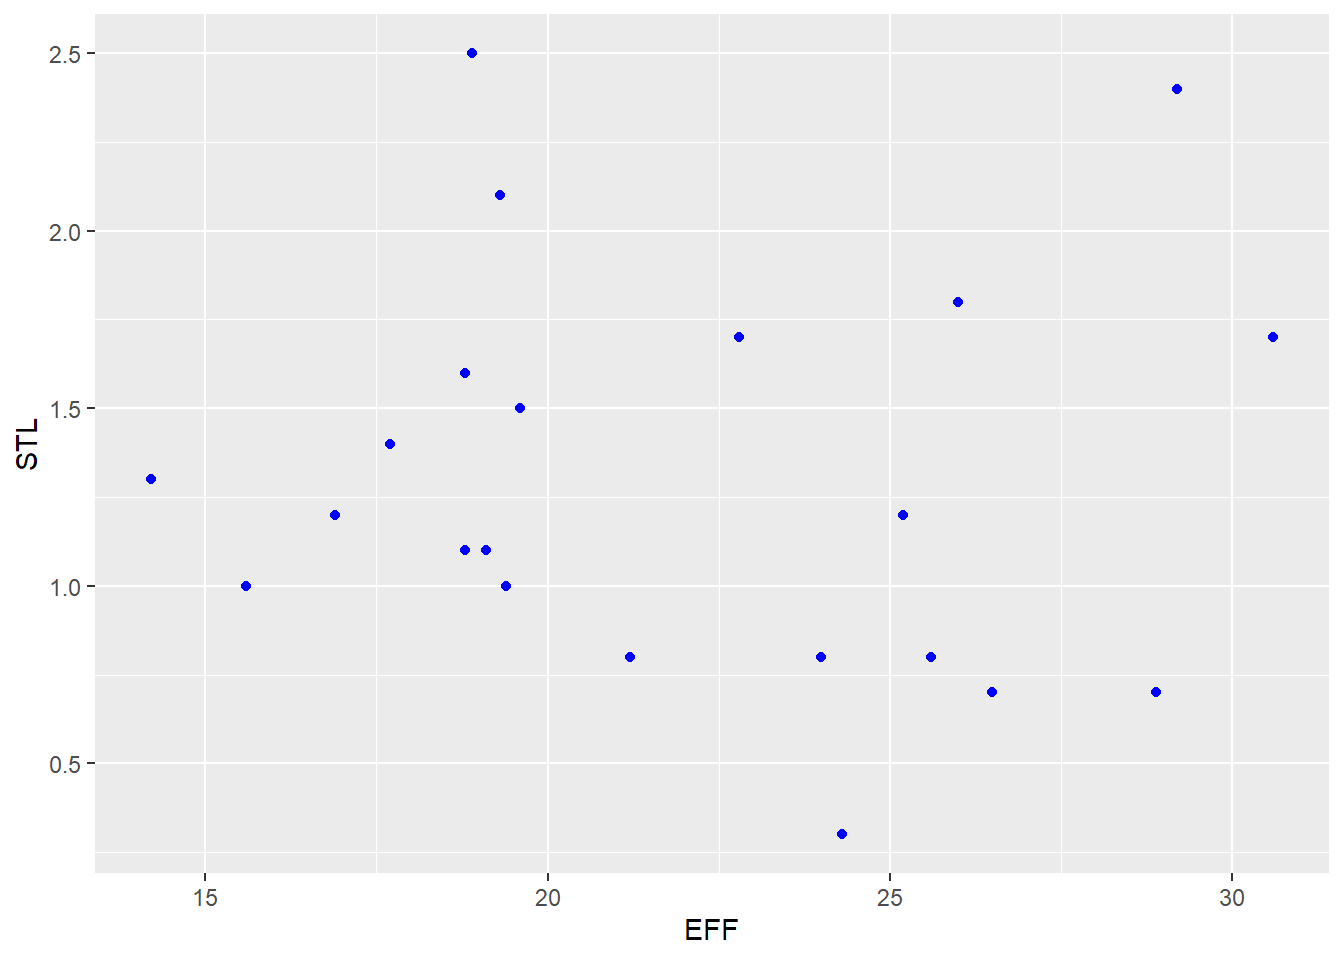
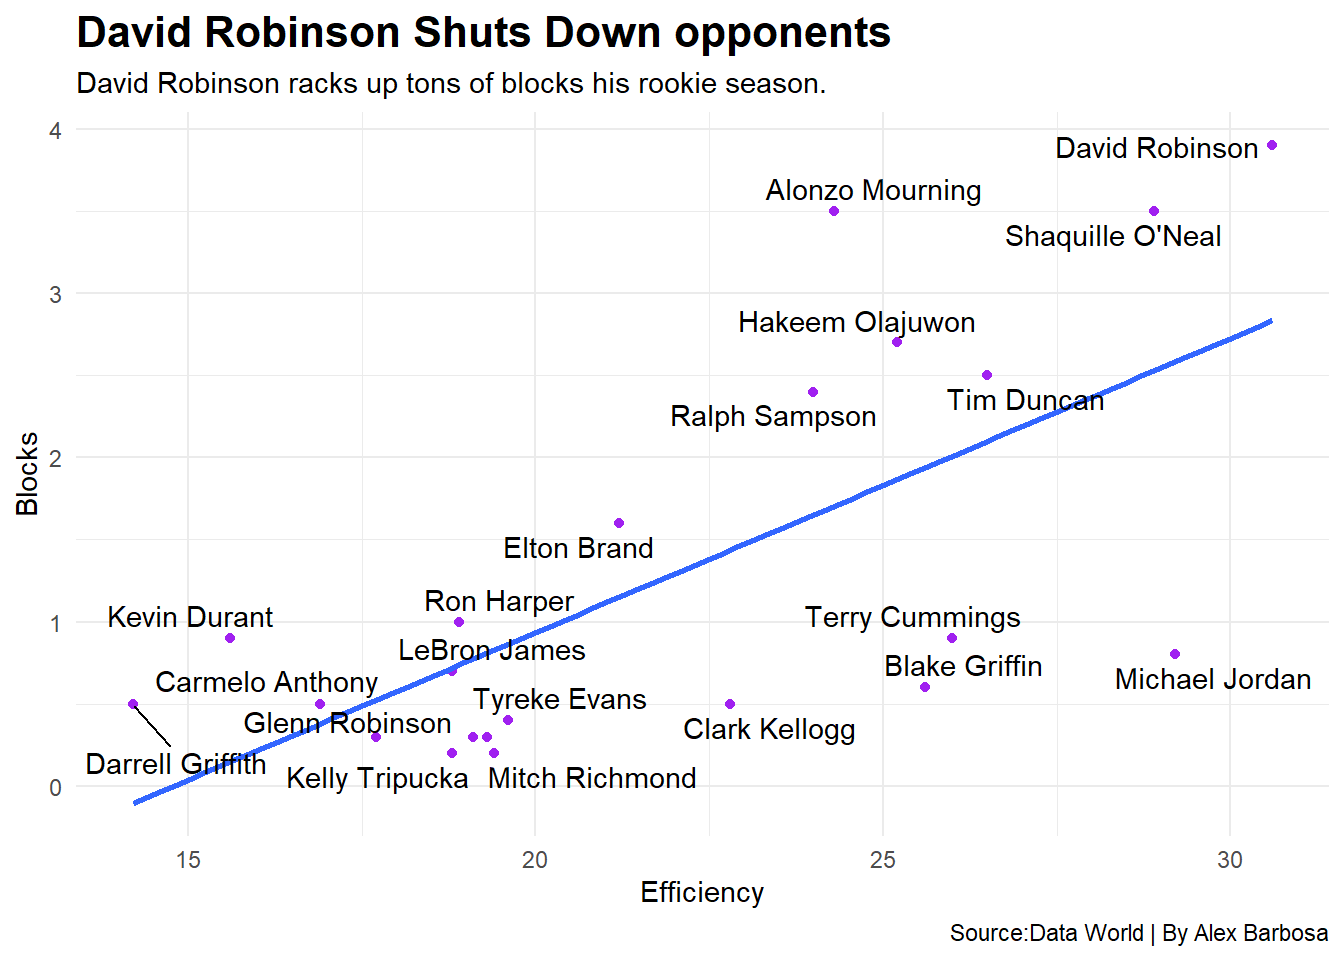
Updating new post

diff --git a/2021/04/07/who-had-the-best-rookie-season/index.html b/2021/04/07/who-had-the-best-rookie-season/index.html
@@ -77,12 +77,15 @@
 <p>Have you ever thought of hypothetical scenarios of NBA players and how they would compare against each other stat-wise?
 We are going to be doing this by looking at NBA rookies and try to find out who had the best rookie season. We are going to use rookie season data from the website Data World.We will be using the NBA seasons of 1980-2016.</p>
 <p>Since that’s a lot of data to use I’m going to narrow down the data by using our tool filter to only be looking at rookies who average at least 20 points their rookie season. The reason why I picked points is to really narrow down the data to get an even better picture of who had the best rookie season during our time period of 1980-2016.</p>
+<pre class="r"><code>library(ggrepel)</code></pre>
+<pre><code>## Warning: package &#39;ggrepel&#39; was built under R version 4.0.4</code></pre>
+<pre><code>## Loading required package: ggplot2</code></pre>
 <pre class="r"><code>library(tidyverse)</code></pre>
 <pre><code>## -- Attaching packages --------------------------------------- tidyverse 1.3.1 --</code></pre>
-<pre><code>## v ggplot2 3.3.3     v purrr   0.3.4
-## v tibble  3.1.0     v dplyr   1.0.5
+<pre><code>## v tibble  3.1.0     v dplyr   1.0.5
 ## v tidyr   1.1.3     v stringr 1.4.0
-## v readr   1.4.0     v forcats 0.5.1</code></pre>
+## v readr   1.4.0     v forcats 0.5.1
+## v purrr   0.3.4</code></pre>
 <pre><code>## Warning: package &#39;tibble&#39; was built under R version 4.0.5</code></pre>
 <pre><code>## Warning: package &#39;tidyr&#39; was built under R version 4.0.5</code></pre>
 <pre><code>## Warning: package &#39;dplyr&#39; was built under R version 4.0.5</code></pre>
@@ -120,7 +123,7 @@ ggplot() +
     horizontal = TRUE,
     color = &quot;red&quot;
   ) + 
-theme_minimal() + labs( title=&quot;Rookie Season Points Averages&quot;, subtitle=&quot;Michael Jordan Runs Away In Scoring. &quot;, caption=&quot;Source: Data World | By Alex Barbosa&quot;) </code></pre>
+theme_minimal() + labs( title=&quot;Michael Jordan Runs Away In Scoring his Rookie Season&quot;, subtitle=&quot;Jordan leads in scoring easily with everyone eles right next to each other. &quot;,y=&quot;Name&quot;,x=&quot;Points Per Game&quot;,caption=&quot;Source: Data World | By Alex Barbosa&quot;) </code></pre>
 <p><img src="/2021/04/07/who-had-the-best-rookie-season/index_files/figure-html/unnamed-chunk-3-1.png" width="672" />
 When we look at scoring for rookies we get a clear picture that Michael Jordan is best in terms scoring with the next closest player being David Robinson.</p>
 <pre class="r"><code>  ggplot() + 
@@ -135,7 +138,7 @@ When we look at scoring for rookies we get a clear picture that Michael Jordan i
     horizontal = TRUE,
     color = &quot;blue&quot;
   ) + 
-  theme_minimal() + labs( title=&quot;Rookie Season Rebounds Averages&quot;, subtitle=&quot;Shaq Dominates on the boards. &quot;, caption=&quot;Source: Data World | By Alex Barbosa&quot;) </code></pre>
+  theme_minimal() + labs( title=&quot;Shaq Dominates On The Boards His Rookie Season&quot;, subtitle=&quot;Centers dominates on the boards their rookie season. &quot;,y=&quot;Name&quot;,x=&quot;Rebounds&quot;,caption=&quot;Source: Data World | By Alex Barbosa&quot;) </code></pre>
 <p><img src="/2021/04/07/who-had-the-best-rookie-season/index_files/figure-html/unnamed-chunk-4-1.png" width="672" /></p>
 <p>Looking at the rookies who average the most rebounds we see Shaq up there along with multiple other centers position guys right behind like Blake Griffin and David Robinson and Tim Duncan.</p>
 <pre class="r"><code>ggplot() + 
@@ -149,7 +152,7 @@ When we look at scoring for rookies we get a clear picture that Michael Jordan i
     aes(y=Name, x=AST),
     horizontal = TRUE,
     color = &quot;dark green&quot;
-  ) + theme_minimal() + labs( title=&quot;Rookie Season Assist Averages&quot;, subtitle=&quot;Allen Iverson Dishes Out Assist. &quot;, caption=&quot;Source: Data World | By Alex Barbosa&quot;) </code></pre>
+  ) + theme_minimal() + labs( title=&quot;Allen Iverson Dishes Out Assist&quot;, subtitle=&quot;Allen Iverson leads rookies in assist with the rest of the pack far behind. &quot;,y=&quot;Name&quot;,x=&quot;Assist&quot;,caption=&quot;Source: Data World | By Alex Barbosa&quot;) </code></pre>
 <p><img src="/2021/04/07/who-had-the-best-rookie-season/index_files/figure-html/unnamed-chunk-5-1.png" width="672" />
 We are next going to look at the rookies’ assist average leaders stat. We clearly see that Allen Iverson separates himself from the rest of the pack of rookies with both LeBron James and Michael Jordan tied at 2nd.</p>
 <pre class="r"><code>ggplot() + 
@@ -165,138 +168,99 @@ We are next going to look at the rookies’ assist average leaders stat. We clea
     color = &quot;purple&quot;
   ) +
   
-  theme_minimal() + labs( title=&quot;Rookie Season Free Throw Percentage&quot;, subtitle=&quot;Kevin Durant Converts Efficiently On The Free throw Line. &quot;, caption=&quot;Source: Data World | By Alex Barbosa&quot;)  </code></pre>
+  theme_minimal() + labs( title=&quot;Kevin Durant Converts Efficiently On The Free throw Line&quot;, subtitle=&quot;Kevin Durant efficient on the line with Michael Jordan barely behind. &quot;,y=&quot;Name&quot;,x=&quot;Free Throw Percentage&quot;,caption=&quot;Source: Data World | By Alex Barbosa&quot;)  </code></pre>
 <p><img src="/2021/04/07/who-had-the-best-rookie-season/index_files/figure-html/unnamed-chunk-6-1.png" width="672" />
 Overall, the stats here just give us a general idea of which rookie players dominated but we do know if those players were efficient or if they were just taking a bunch of shots as a result of being on a bad team so they scored a bunch of points. Stat padding is a problem because it could make other players look better than they are. We will dive in deeper and look at charts with some of the same stats but also look at player efficiency which gives us a better look at player’s value.</p>
-<pre class="r"><code>library(tidyverse)
-library(ggbeeswarm)</code></pre>
-<pre><code>## Warning: package &#39;ggbeeswarm&#39; was built under R version 4.0.4</code></pre>
-<pre class="r"><code>library(ggrepel)</code></pre>
-<pre><code>## Warning: package &#39;ggrepel&#39; was built under R version 4.0.4</code></pre>
-<pre class="r"><code> Rookies &lt;- Rookies %&gt;% filter(PTS&gt;20) 
-ggplot() + geom_beeswarm(data=Rookies, aes(x=PTS, y=`FG%`), color=&quot;red&quot;)</code></pre>
-<p><img src="/2021/04/07/who-had-the-best-rookie-season/index_files/figure-html/unnamed-chunk-8-1.png" width="672" /></p>
-<pre class="r"><code>ggplot() + geom_beeswarm(
-    data=Rookies, 
-    groupOnX=TRUE, 
-    aes(x=PTS, y=`FG%`), color=&quot;red&quot;) +  labs(x=&quot;Points&quot;, y=&quot;Field goal percentage&quot;, title=&quot;Michael Jordan scoring Dominance&quot;, subtitle=&quot;Michael Jordan out scores everyone and still has one of the top field goal percentage. &quot;, caption=&quot;Source: Data World | By Alex Barbosa&quot;) +  
-  
-
-   theme(
-    plot.title = element_text(size = 16, face = &quot;bold&quot;),
-    axis.title = element_text(size = 8), 
-    plot.subtitle = element_text(size=10), 
-    panel.grid.minor = element_blank()
-    ) +
-    
-  geom_text_repel(
-    data=Rookies, 
-    aes(x=EFF,y=`MIN`, label=Name))</code></pre>
-<p><img src="/2021/04/07/who-had-the-best-rookie-season/index_files/figure-html/unnamed-chunk-8-2.png" width="672" />
-The first chart we are going to look at is rookie season points averages but this time we will also look at the field goal percentage too. This will help us get a better insight into who was scoring while also being effective. There could be players who shoot a lot of shots and average tons of points but they may not be as effective.</p>
-<p>Looking at the first chart, we see that Michael Jordan is averaging the most points by far while also having one of the top field goal percentages which shows us that Michael Jordan was very efficient. The next closest player is David Robinson who is more efficient while averaging four fewer points.</p>
-<p>In our next charts, we are going to look at EFF in basketball which stands for player efficiency. Efficiency is a total performance statistic that attempts to measure a player’s performance above the number of points produced and a benchmark that allows us to compare a player’s overall individual value to other players.</p>
 <pre class="r"><code>library(tidyverse)</code></pre>
-<pre class="r"><code> ggplot(Rookies, aes(x=PTS, y=`FG%`)) + 
-  geom_point(color=&quot;grey&quot;)+ geom_smooth(method=lm, se=FALSE)+ 
-  labs(x=&quot;Points per game&quot;, y=&quot;Field goal percentage&quot;, title=&quot;Michael Jordan scoring Dominance&quot;, subtitle=&quot;Michael Jordan out scores everyone and still has one of the top field goal percentages.&quot;, caption=&quot; Source:Data World | By Alex Barbosa&quot;)+theme_minimal() + 
+<pre class="r"><code>Rookies &lt;- Rookies %&gt;% filter(PTS&gt;20) 
+
+ggplot(Rookies, aes(x=PTS, y=`FG%`)) + 
+  geom_point(color=&quot;green&quot;)+ geom_smooth(method=lm, se=FALSE)+ 
+  labs(x=&quot;Points per game&quot;, y=&quot;Field goal percentage&quot;, title=&quot;Michael Jordan Dominance Scoring&quot;, subtitle=&quot;Michael Jordan leads in Scoring with having a high field goal percentage.&quot;, caption=&quot; Source:Data World | By Alex Barbosa&quot;)+theme_minimal() + 
   theme(
     plot.title = element_text(size = 16, face = &quot;bold&quot;)
     ) + geom_text_repel(
     data=Rookies, 
     aes(x=PTS,y=`FG%`, label=Name))</code></pre>
 <pre><code>## `geom_smooth()` using formula &#39;y ~ x&#39;</code></pre>
-<p><img src="/2021/04/07/who-had-the-best-rookie-season/index_files/figure-html/unnamed-chunk-10-1.png" width="672" /></p>
-<pre class="r"><code>  Rookies &lt;- Rookies %&gt;% filter(PTS&gt;20) 
-ggplot() + geom_beeswarm(data=Rookies, aes(x=EFF, y=`STL`), color=&quot;blue&quot;)</code></pre>
-<pre><code>## Warning in f(...): The default behavior of beeswarm has changed in version
-## 0.6.0. In versions &lt;0.6.0, this plot would have been dodged on the y-axis. In
-## versions &gt;=0.6.0, grouponX=FALSE must be explicitly set to group on y-axis.
-## Please set grouponX=TRUE/FALSE to avoid this warning and ensure proper axis
-## choice.</code></pre>
-<p><img src="/2021/04/07/who-had-the-best-rookie-season/index_files/figure-html/unnamed-chunk-11-1.png" width="672" /></p>
-<pre class="r"><code>ggplot() + geom_beeswarm(
-  
-    data=Rookies, 
-    groupOnX=TRUE, 
-    aes(x=EFF, y=`STL`), color=&quot;blue&quot;) +  labs(x=&quot;Efficiency&quot;, y=&quot;Steals&quot;, title=&quot;Players efficiency while getting steals&quot;, subtitle=&quot;David Robinson leads in efficiency when getting steals,while Ron Harper collected the most steals. &quot;, caption=&quot;Source: Data World | By Alex Barbosa&quot;) +  
-  
-
-   theme(
-    plot.title = element_text(size = 16, face = &quot;bold&quot;),
-    axis.title = element_text(size = 8), 
-    plot.subtitle = element_text(size=10), 
-    panel.grid.minor = element_blank()
-    ) </code></pre>
-<p><img src="/2021/04/07/who-had-the-best-rookie-season/index_files/figure-html/unnamed-chunk-11-2.png" width="672" /></p>
-<pre class="r"><code>  geom_text_repel(
-    data=Rookies, 
-    aes(x=EFF,y=`MIN`, label=Name))</code></pre>
-<pre><code>## mapping: x = ~EFF, y = ~MIN, label = ~Name 
-## geom_text_repel: parse = FALSE, na.rm = FALSE, box.padding = 0.25, point.padding = 1e-06, min.segment.length = 0.5, arrow = NULL, force = 1, force_pull = 1, max.time = 0.5, max.iter = 10000, max.overlaps = 10, nudge_x = 0, nudge_y = 0, xlim = c(NA, NA), ylim = c(NA, NA), direction = both, seed = NA, verbose = FALSE
-## stat_identity: na.rm = FALSE
-## position_identity</code></pre>
-<p>In the next chart we are going to look at rookie player’s efficiency with getting steals. We see three rookies that stand out David Robinson, Michael Jordan, and Ron Harper.</p>
-<p>Ron Harper has the most amount of steals but the efficiency/value of his steals is lower compared to other players like Michael Jordan and David Robinson who had fewer steals but higher player efficiency when getting steals.</p>
-<pre class="r"><code>  Rookies &lt;- Rookies %&gt;% filter(PTS&gt;20) 
-ggplot() + geom_beeswarm(data=Rookies, aes(x=EFF, y=`BLK`), color=&quot;purple&quot;)</code></pre>
-<pre><code>## Warning in f(...): The default behavior of beeswarm has changed in version
-## 0.6.0. In versions &lt;0.6.0, this plot would have been dodged on the y-axis. In
-## versions &gt;=0.6.0, grouponX=FALSE must be explicitly set to group on y-axis.
-## Please set grouponX=TRUE/FALSE to avoid this warning and ensure proper axis
-## choice.</code></pre>
-<p><img src="/2021/04/07/who-had-the-best-rookie-season/index_files/figure-html/unnamed-chunk-12-1.png" width="672" /></p>
-<pre class="r"><code>ggplot() + geom_beeswarm(
-    data=Rookies, 
-    groupOnX=TRUE, 
-    aes(x=EFF, y=`BLK`), color=&quot;purple&quot;) +  labs(x=&quot;Efficiency&quot;, y=&quot;Blocks&quot;, title=&quot;Players efficiency while on the court&quot;, subtitle=&quot;David Robinson dominate with having the most blocks with the highest player efficiency. &quot;, caption=&quot;Source: Data World | By Alex Barbosa&quot;) +  
-  
-
-   theme(
-    plot.title = element_text(size = 16, face = &quot;bold&quot;),
-    axis.title = element_text(size = 8), 
-    plot.subtitle = element_text(size=10), 
-    panel.grid.minor = element_blank()
-    ) </code></pre>
-<p><img src="/2021/04/07/who-had-the-best-rookie-season/index_files/figure-html/unnamed-chunk-12-2.png" width="672" /></p>
-<pre class="r"><code>  geom_text_repel(
-    data=Rookies, 
-    aes(x=EFF,y=`MIN`, label=Name))</code></pre>
-<pre><code>## mapping: x = ~EFF, y = ~MIN, label = ~Name 
-## geom_text_repel: parse = FALSE, na.rm = FALSE, box.padding = 0.25, point.padding = 1e-06, min.segment.length = 0.5, arrow = NULL, force = 1, force_pull = 1, max.time = 0.5, max.iter = 10000, max.overlaps = 10, nudge_x = 0, nudge_y = 0, xlim = c(NA, NA), ylim = c(NA, NA), direction = both, seed = NA, verbose = FALSE
-## stat_identity: na.rm = FALSE
-## position_identity</code></pre>
-<p>In the next chart I wanted to simplify things and just look at rookie player’s minutes and see their overall value on the floor while playing. We see from the chart that Michael Jordan played more minutes than David Robinson but his value on the court is just a little higher than Michael.</p>
+<p><img src="/2021/04/07/who-had-the-best-rookie-season/index_files/figure-html/unnamed-chunk-8-1.png" width="672" />
+The first chart we are going to look at is rookie season points per game but this time we will also look at the field goal percentage too. This will help us get a better insight into who was scoring while also being effective. There could be players who shoot a lot of shots and average tons of points but they may not be as effective.</p>
+<p>Looking at the first chart, we see that Michael Jordan is averaging the most points by far while also having one of the top field goal percentages which shows us that Michael Jordan was very efficient. The next closest player is David Robinson who is more efficient while averaging four fewer points.</p>
+<p>In our next charts, we are going to look at EFF in basketball which stands for player efficiency. Efficiency is a total performance statistic that attempts to measure a player’s performance above the number of points produced and a benchmark that allows us to compare a player’s overall individual value to other players.</p>
+<pre class="r"><code>library(tidyverse)</code></pre>
 <pre class="r"><code>Rookies &lt;- Rookies %&gt;% filter(PTS&gt;20) 
-ggplot() + geom_beeswarm(data=Rookies, aes(x=EFF, y=`MIN`), color=&quot;green&quot;)</code></pre>
-<pre><code>## Warning in f(...): The default behavior of beeswarm has changed in version
-## 0.6.0. In versions &lt;0.6.0, this plot would have been dodged on the y-axis. In
-## versions &gt;=0.6.0, grouponX=FALSE must be explicitly set to group on y-axis.
-## Please set grouponX=TRUE/FALSE to avoid this warning and ensure proper axis
-## choice.</code></pre>
-<p><img src="/2021/04/07/who-had-the-best-rookie-season/index_files/figure-html/unnamed-chunk-13-1.png" width="672" /></p>
-<pre class="r"><code>ggplot() + geom_beeswarm(
+
+ ggplot(Rookies, aes(x=EFF, y=`STL`)) + 
+  geom_point(color=&quot;red&quot;)+ 
+  labs(x=&quot;Efficiency&quot;, y=&quot;Steals&quot;, title=&quot;Ron Harper Snatches Steals&quot;, subtitle=&quot;Ron Harper leads in steals but is middle of the pack in efficiency.&quot;, caption=&quot; Source:Data World | By Alex Barbosa&quot;)+theme_minimal() + 
+  theme(
+    plot.title = element_text(size = 16, face = &quot;bold&quot;)
+    ) + geom_text_repel(
     data=Rookies, 
-    groupOnX=TRUE, 
-    aes(x=EFF, y=`MIN`), color=&quot;green&quot;) +  labs(x=&quot;Efficiency&quot;, y=&quot;Minutes&quot;, title=&quot;Players efficiency while on the court&quot;, subtitle=&quot;David Robinson leads in efficiency with Michael Jordan right behind him. &quot;, caption=&quot;Source: Data World | By Alex Barbosa&quot;) +  
-  
-  
+    aes(x=EFF,y=`STL`, label=Name))</code></pre>
+<p><img src="/2021/04/07/who-had-the-best-rookie-season/index_files/figure-html/unnamed-chunk-10-1.png" width="672" />
+In this next chart we see rookie player’s efficiency with getting steals. We see three rookies that stand out David Robinson, Michael Jordan, and Ron Harper.</p>
+<p>Ron Harper has the most amount of steals but the efficiency/value of his steals is lower compared to other players like Michael Jordan and David Robinson who had fewer steals but higher player efficiency with getting steals is much higher.</p>
+<pre class="r"><code> Rookies &lt;- Rookies %&gt;% filter(PTS&gt;20) 
+
+ ggplot(Rookies, aes(x=EFF, y=`BLK`)) + 
+  geom_point(color=&quot;purple&quot;)+ geom_smooth(method=lm, se=FALSE)+ 
+  labs(x=&quot;Efficiency&quot;, y=&quot;Blocks&quot;, title=&quot;David Robinson Shuts Down opponents&quot;, subtitle=&quot;David Robinson racks up tons of blocks his rookie season.&quot;, caption=&quot; Source:Data World | By Alex Barbosa&quot;)+theme_minimal() + 
+  theme(
+    plot.title = element_text(size = 16, face = &quot;bold&quot;)
+    
+    
+    ) + geom_text_repel(
+    data=Rookies, 
+    aes(x=EFF,y=`BLK`, label=Name))</code></pre>
+<pre><code>## `geom_smooth()` using formula &#39;y ~ x&#39;</code></pre>
+<pre><code>## Warning: ggrepel: 2 unlabeled data points (too many overlaps). Consider
+## increasing max.overlaps</code></pre>
+<p><img src="/2021/04/07/who-had-the-best-rookie-season/index_files/figure-html/unnamed-chunk-11-1.png" width="672" /></p>
+<pre class="r"><code> ggplot() + 
+  geom_point(data=Rookies, aes(x=EFF, y=`FG%`), color=&quot;light grey&quot;) +
+  geom_point(data=Rookies, aes(x=EFF, y=`FG%`)) +
+  geom_hline(yintercept=35, color=&quot;dark grey&quot;) + 
+  geom_vline(xintercept=20, color=&quot;dark grey&quot;) + 
+  geom_text(aes(x=27, y=46, label=&quot;Great Efficiency &quot;), color=&quot;blue&quot;) +
+  geom_text(aes(x=19, y=38, label=&quot;Average Efficiency&quot;), color=&quot;blue&quot;) +
+  geom_text_repel(data=Rookies, aes(x=EFF, y=`FG%`, label=Name)) +
+  labs(x=&quot;Efficiency&quot;, y=&quot;Field goal percentage&quot;, title=&quot;Shaq Scores efficiently &quot;, subtitle=&quot;Shaq leads rookies in scoring  field goal percentage while being efficient.&quot;, caption=&quot;Source: Data World | By Alex Barbosa&quot;) +
+  theme_minimal() + 
   theme(
     plot.title = element_text(size = 16, face = &quot;bold&quot;),
-    axis.title = element_text(size = 8), 
-    plot.subtitle = element_text(size=10), 
-    panel.grid.minor = element_blank()
-    ) </code></pre>
-<p><img src="/2021/04/07/who-had-the-best-rookie-season/index_files/figure-html/unnamed-chunk-13-2.png" width="672" /></p>
-<pre class="r"><code>  geom_text_repel(
-    data=Rookies, 
-    aes(x=EFF,y=`MIN`, label=Name))</code></pre>
-<pre><code>## mapping: x = ~EFF, y = ~MIN, label = ~Name 
-## geom_text_repel: parse = FALSE, na.rm = FALSE, box.padding = 0.25, point.padding = 1e-06, min.segment.length = 0.5, arrow = NULL, force = 1, force_pull = 1, max.time = 0.5, max.iter = 10000, max.overlaps = 10, nudge_x = 0, nudge_y = 0, xlim = c(NA, NA), ylim = c(NA, NA), direction = both, seed = NA, verbose = FALSE
-## stat_identity: na.rm = FALSE
-## position_identity</code></pre>
-<p>In our last chart we are looking at another defensive stat but instead of steals, we are going to look at blocks. This time around we see that David Robinson is leading in blocks per game and is top in overall player value in this area with Shaq right behind.</p>
-<p>So far we are seeing a common trend with Michael Jordan and David Robinson nearly at the top among rookies in different areas measuring player’s value and stat-wise. In conclusion, the rookie who had the best rookie season from a time span of 1980-2016 was Michael Jordan with the next best guy being David Robinson.</p>
+    axis.title = element_text(size = 10),
+    axis.text = element_text(size = 8),
+    axis.ticks = element_blank(),
+    panel.grid.minor = element_blank(),
+    panel.grid.major.x = element_blank()
+  )</code></pre>
+<p><img src="/2021/04/07/who-had-the-best-rookie-season/index_files/figure-html/unnamed-chunk-11-2.png" width="672" />
+I wanted to look deeper into field goal percentage so I decided to look made a chart that looks at players who have a great vs. average efficiency correlating to their field goal percentage.</p>
+<p>When we look at the chart we see some players like for today that we recognize like LeBron James and Kevin Durant who are in that average range for efficiency and who are at the lower end of field goal percentage along with Allen Iverson at the bottom.</p>
+<p>Now when we look at the other side we a lot of center position guys who haves great efficiency and have a good field goal percentage. We see Shaq with the highest field goal percentage along with David Robison up there with a slightly lower field goal percentage but a higher efficiency with Michael Jordan not far behind.</p>
+<p>Overall looking at the chart I notice a lot of rookies at the top are center position players. Center do typically do have a high field goal percentage than other position guys. So we look at the chart it makes it impressive to see other players who do not play the center position like Michel Jordan who was average the most point among the rookies among to still be near the top in field goal percentage and higher efficiency.</p>
+<p>In the next chart I wanted to simplify things and just look at rookie player’s minutes and see their overall value on the floor while playing.</p>
+<pre class="r"><code> ggplot() + 
+  geom_point(data=Rookies, aes(x=EFF, y=`MIN`), color=&quot;light grey&quot;) +
+  geom_point(data=Rookies, aes(x=EFF, y=MIN)) +
+  geom_hline(yintercept=35, color=&quot;blue&quot;) + 
+  geom_vline(xintercept=20, color=&quot;blue&quot;) + 
+  geom_text_repel(data=Rookies, aes(x=EFF, y=`MIN`, label=Name)) +
+  labs(x=&quot;Efficiency&quot;, y=&quot;Minutes&quot;, title=&quot;David Robinson effective while on the court&quot;, subtitle=&quot;David Robinson leads in efficiency with Michael Jordan right behind. The blue lines are averages.&quot;, caption=&quot;Source: Data World | By Alex Barbosa&quot;) +
+  theme_minimal() + 
+  theme(
+    plot.title = element_text(size = 16, face = &quot;bold&quot;),
+    axis.title = element_text(size = 10),
+    axis.text = element_text(size = 8),
+    axis.ticks = element_blank(),
+    panel.grid.minor = element_blank(),
+    panel.grid.major.x = element_blank()
+  )</code></pre>
+<p><img src="/2021/04/07/who-had-the-best-rookie-season/index_files/figure-html/unnamed-chunk-12-1.png" width="672" /></p>
+<p>This chart gives us a simplified way to see all our player’s efficiency with the number of minutes they played their rookie season. We see players like Kevin Durant who played lower minutes played and has a low efficiency while we see LeBron and Allen Iverson with a lot of minutes played but are toward the middle inefficiency. Looking at the other end we see our top player on the right corner with the player with high efficiency along with a lot of minutes played.</p>
+<p>We see that Michael Jordan and David Robinson are in the area with top efficiency with playing around 36 to 38 minutes a game which shows us that their efficiency and value on the court when playing.</p>
+<p>We have seen a common trend with Michael Jordan and David Robinson nearly at the top among rookies in different areas measuring player’s value and stat-wise. In conclusion, the rookie who had the best rookie season from a time span of 1980-2016 was Michael Jordan with David Robinson being very close.</p>
 
     </div>
   </article>
